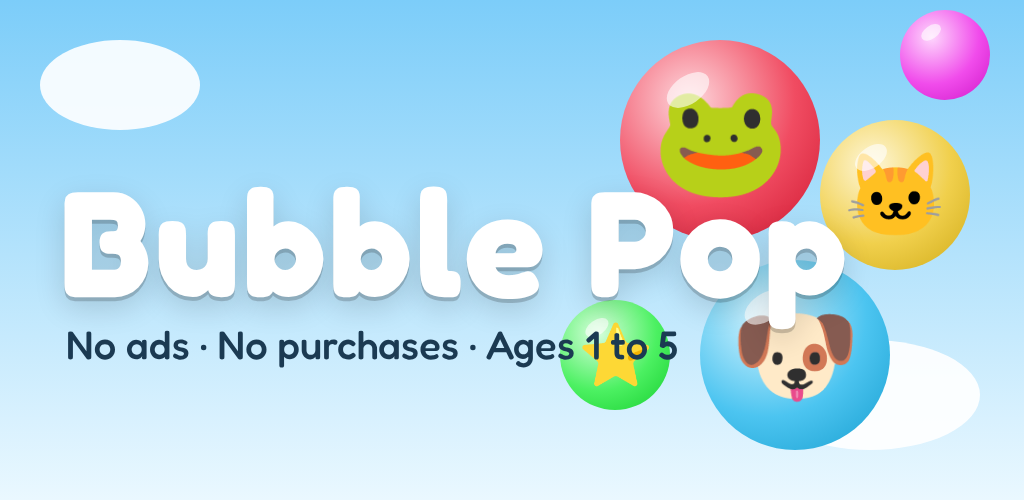
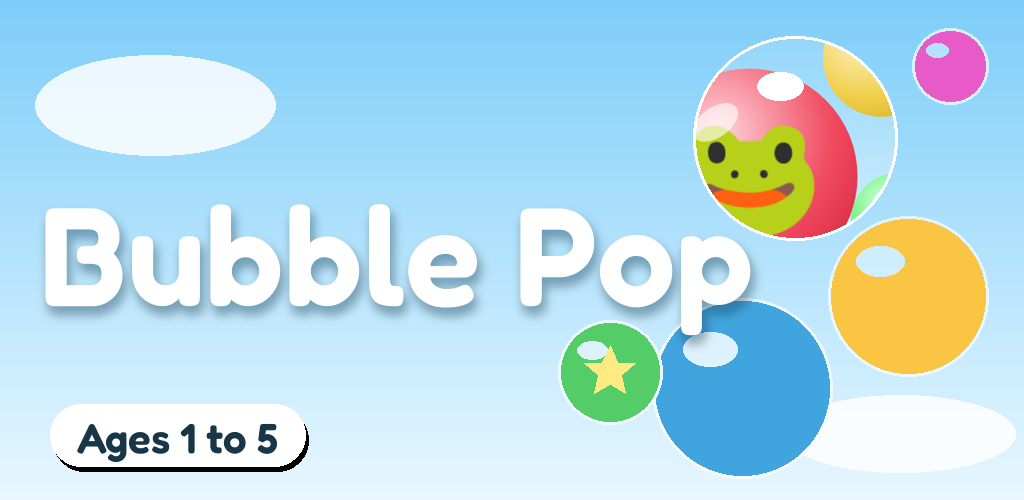
Fix store pack after Nov 9 metadata rejection: feature graphic rebuilt without promotional text; listing.md aligned to the compliant copy + submission-mechanics caution

diff --git a/store/listing.md b/store/listing.md
@@ -5,7 +5,7 @@
 **App name** (30 chars max): `Bubble Pop for Kids`
 
 **Short description** (80 chars max):
-`Pop bubbles, balloons and stars. No ads, no purchases, no internet. Ages 1 to 5.`
+`Pop bubbles, balloons and stars. No internet. Ages 1 to 5.`
 
 **Full description**:
 
@@ -25,15 +25,13 @@ MADE FOR FAMILIES
 • Cheers and confetti every ten pops
 
 MADE FOR PARENTS
-• No ads. Ever.
-• No in-app purchases
 • No accounts, no sign-in, nothing collected
 • Works offline on the plane, in the car, anywhere
 • Tiny download
 
 Made by AugustInnovations LLC.
 
-**Category**: Game → Casual. **Tags**: kids, toddler, preschool, bubbles, ad-free.
+**Category**: Game → Casual. **Tags**: kids, toddler, preschool, bubbles.
 
 **Target audience**: Ages 5 and under. Designed for Families: yes.
 
@@ -44,3 +42,5 @@ Made by AugustInnovations LLC.
 **Privacy policy URL**: https://taugustincst.github.io/bubblepop/privacy.html
 
 **Assets in this folder**: `feature-graphic-1024x500.png`, five 720×1280 phone screenshots, plus `../icons/icon-512.png` for the hi-res icon.
+
+**Policy history / caution**: The Nov 3 and Nov 9, 2026 submissions were rejected under the Metadata policy. Two lessons now baked in: (1) this file is the listing source of truth — it must never again carry price/promotional wording ("Ad-Free", "No ads", "No purchases") in the title, descriptions, tags, or the feature graphic; the feature graphic was rebuilt Nov 9, 2026 with only "Bubble Pop" + an "Ages 1 to 5" badge. (2) A Console draft edit is NOT a submitted change — before submitting, verify in Publishing overview that the store-listing change actually reflects the new title; the Nov 9 bundle went in carrying the original listing ("Provided app name (Bubble Pop: Ad-Free for Kids)") while the corrected title sat in draft, which caused that rejection.
